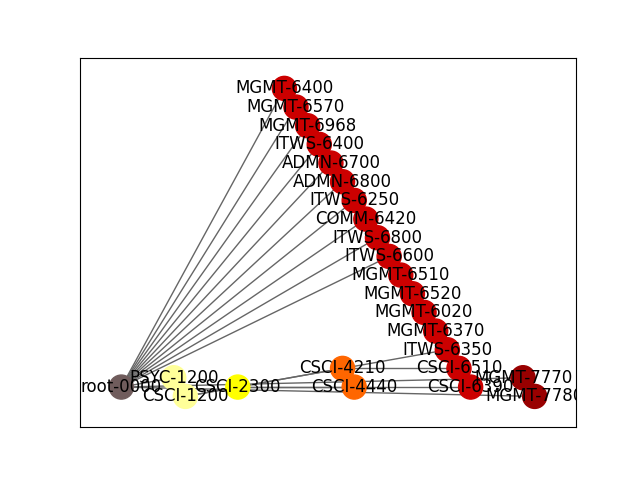
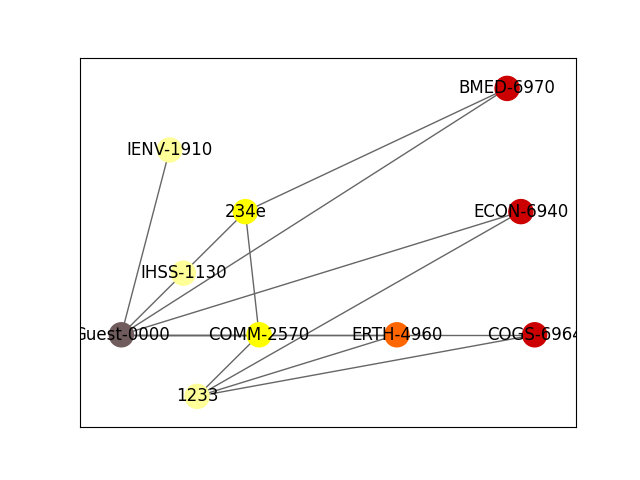
Finished add extracurricular

Changed region(s): [[0.125, 0.1562, 0.9062, 0.875], [0.1875, 0.2812, 0.3438, 0.375]]

diff --git a/gui.py b/gui.py
@@ -8,10 +8,12 @@ from tkinter import ttk
 
 TEAM_SLOGAN_STR = "RPI YOUR OWN ADVENTURE"
 # The following list is a stub when failed to load from SIS
-'''avail_list = ['Join 3 clubs', 'Go to a concert in EMPAC', 'Join the fraternity', \
-            'Join the sorosity', 'Work out at the RPI gym', 'Take the shuttle around the campus']  # list that is available
+avail_list = ['Join 3 clubs', 'Go to a concert in EMPAC', 'Join the fraternity', \
+              'Join the sorosity', 'Work out at the RPI gym',
+              'Take the shuttle around the campus']  # list that is available
 accept_list = []  # list you have accepted
-course_list =[]'''
+course_list = []
+
 
 class UserTypeEnum(enum.Enum):
     """
@@ -29,7 +31,7 @@ class pageEnum(enum.Enum):
     mainWindow = "mainWindow"
     AddSkillPage = "AddSkillPage"
     requestWindow = "requestWindow"
-
+    extraWindow = "extraWindow"
 
 class loginWindow:
     """
@@ -156,7 +158,7 @@ class mainWindow:
         self.skillFrame.place(x=0, y=0)
 
         # Request List
-        self.requestFrame=LabelFrame(self.master, text="Request List: ", font=("Georgia", 20))
+        self.requestFrame = LabelFrame(self.master, text="Request List: ", font=("Georgia", 20))
         self.requestFrame.pack()
         self.request_data = StringVar()
         self.requestList = Listbox(self.requestFrame, width=40, height=37, listvariable=self.request_data)
@@ -223,7 +225,6 @@ class mainWindow:
         self.modify_request.pack()
         self.modify_request.place(x=825, y=650)
 
-
     def Update_skilltree(self):
         """
         Reload the skillTree image from stored path
@@ -233,16 +234,21 @@ class mainWindow:
         self.label1 = Label(self.master, image=self.skillImg)
         self.label1.pack()
         self.label1.place(x=70, y=50)
+
     def extra(self):
         self.go_extra_page()
+
     def go_extra_page(self):
         """
         Initialize and go into extracurricular page
         """
+        self.sub_page_name = pageEnum.extraWindow
         self.master.deiconify()
         new_window = Toplevel(self.master)
-        extrapage(new_window)
+        self.sub_page_window = new_window
+        extrapage(new_window, personObj=self.PersonObj, st=self.ST, parent=self)
         new_window.mainloop()
+
     def addOrRemove(self):
         """
         Switch to the add/remove page
@@ -278,34 +284,71 @@ class mainWindow:
         """
         self.master.deiconify()
         newwindow = Toplevel(self.master)
-        request = requestWindow(newwindow,personObj=self.PersonObj)
+        request = requestWindow(newwindow, personObj=self.PersonObj)
         self.master.wait_window(newwindow)
         accept_list = request.return_list()
         self.request_data.set(accept_list)
 
+
 class extrapage:
-    def __init__(self,master):
+    def __init__(self, master, personObj=None, st=None, parent=None):
         self.master = master
         self.screen_width, self.screen_height = self.master.maxsize()
         self.w = int((self.screen_width - 800) / 2)
         self.h = int((self.screen_height - 600) / 2)
         self.master.geometry(f'800x600+{self.w}+{self.h}')
         self.master.resizable(width=False, height=False)
-        #Course List
+        # Course List
+
+        # ###################################################################################
+        self.PersonObj = personObj
+        self.ST = st
+        self.parent = parent
+        # Listbox representation for displaying the added/available courses
+        self.courseList_listbox = None
+        self.addedList_listbox = None
+        # Data representation for the course/added list as dict
+        self.course_dict = None
+        # Temp list for addition
+        self.course_list = None
+        self.added_list = None
+
+        self.course_dict = dict()
+        self.course_list = []
+        self.added_list = []
+
+        if self.PersonObj is not None:
+            # Update the selectable courses
+            for item in self.PersonObj.get_selectable_courses(self.ST):
+                self.course_list.append(str(item))
+                self.course_dict[str(item)] = item
+            # Update the selected courses
+            for course in self.PersonObj.get_skills():
+                self.added_list.append(str(course))
+        else:
+            self.course_list = ['mock list', 'Operating System', 'Principle of Software', 'Intro to algorithm']
+            for item in self.course_list:
+                self.course_dict[item] = item
+
         # self.courseframe=LabelFrame(self.master, text="Course List: ", font=("Georgia", 20))
         # self.courseframe.pack(side=TOP)
-        self.course_data=StringVar()
-        self.courseList = Listbox(self.master, height=30,width=50,listvariable=self.course_data)
-        self.course_data.set(course_list)
+        self.course_data = StringVar()
+        self.courseList = Listbox(self.master, height=30, width=50, listvariable=self.course_data,selectmode='multiple')
+
+        print(self.added_list)
+
+        for course in self.added_list:
+            self.courseList.insert(END, course)
+
         self.courseList.pack()
-        self.courseList.place(x=10,y=10)
-        #Extra course
-        self.extra_course=StringVar()
-        self.extra_entry=Entry(self.master, textvariable=self.extra_course)
+        self.courseList.place(x=10, y=10)
+        # Extra course
+        self.extra_course = StringVar()
+        self.extra_entry = Entry(self.master, textvariable=self.extra_course)
         self.extra_entry.insert(0, "Enter Course here")
         self.extra_entry.pack()
-        self.extra_entry.place(x=500, y=150,width=150, height=50)
-        #Added the course 
+        self.extra_entry.place(x=500, y=150, width=150, height=50)
+        # Added the course
         self.addextra = Button(
             self.master,
             text="Add",
@@ -316,10 +359,35 @@ class extrapage:
             command=lambda: self.add()
         )
         self.addextra.pack()
-        self.addextra.place(x=500,y=200, width=150, height=50)
+        self.addextra.place(x=500, y=200, width=150, height=50)
+
     def add(self):
-        #TO DO: add extra course
-        pass
+        # print(self.extra_entry.get())
+        this_input = str(self.extra_entry.get())
+        selected_course_index = []
+        if this_input == "Enter Course here" or this_input == "":
+            return
+        try:
+            selected_course_index = self.courseList.curselection()
+            # print(selected_course_index)
+        except:
+            return
+        selected_course = [self.ST.get_node_by_shortName(self.courseList.get(index)) for index in selected_course_index]
+        this_skill = self.ST.add_custom_skill(skill_name=this_input, parent=selected_course)
+        self.PersonObj.add_skill(self.ST, this_skill)
+
+
+
+        self.go_back()
+
+
+
+
+    def go_back(self):
+        self.parent.sub_page_name = None
+        self.parent.sub_page_window = None
+        self.master.destroy()
+
 
 class AddSkillPage:
     """
@@ -379,6 +447,7 @@ class AddSkillPage:
             # Update the selected courses
             for course in self.PersonObj.get_skills():
                 self.added_list.append(str(course))
+                self.course_dict[str(course)] = course
         else:
             self.course_list = ['mock list', 'Operating System', 'Principle of Software', 'Intro to algorithm']
             for item in self.course_list:
@@ -499,7 +568,7 @@ class AddSkillPage:
         """
         self.statusBar.set("Adding course........")
         self.console.update()
-        print(self.courseList_listbox.curselection()[0])
+        # print(self.courseList_listbox.curselection()[0])
         if self.courseList_listbox.curselection()[0] is not None and self.courseList_listbox.curselection()[0] >= 0:
             # Get selection and add the skill
             selected = self.courseList_listbox.get(self.courseList_listbox.curselection())
@@ -617,7 +686,7 @@ class requestWindow:
         self.master.resizable(width=False, height=False)
 
         # Available Request List
-        self.avalFrame=LabelFrame(self.master, text="Available Request List: ", font=("Georgia", 20))
+        self.avalFrame = LabelFrame(self.master, text="Available Request List: ", font=("Georgia", 20))
         self.avalFrame.pack(side=TOP)
         self.avail_item = StringVar()
         self.avail_item.set(self.PersonObj.get_avail_request())
@@ -626,7 +695,7 @@ class requestWindow:
         self.avalFrame.place(x=50, y=0)
 
         # Accepted Request List
-        self.acceptFrame=LabelFrame(self.master, text="Accepted Request List: ", font=("Georgia", 20))
+        self.acceptFrame = LabelFrame(self.master, text="Accepted Request List: ", font=("Georgia", 20))
         self.acceptFrame.pack(side=TOP)
         self.accept_item = StringVar()
         self.accept_item.set(self.PersonObj.get_accept_request())
@@ -698,7 +767,7 @@ class requestWindow:
         """
         Accept the selected request
         """
-        self.PersonObj.add_accept_request(self.PersonObj.remove_avail_request(\
+        self.PersonObj.add_accept_request(self.PersonObj.remove_avail_request( \
             self.avail_request.get(self.avail_request.curselection())))
         self.avail_item.set(self.PersonObj.get_avail_request())
         self.accept_item.set(self.PersonObj.get_accept_request())
@@ -707,7 +776,7 @@ class requestWindow:
         """
         Remove the selected request
         """
-        self.PersonObj.add_avail_request(self.PersonObj.remove_accept_request(\
+        self.PersonObj.add_avail_request(self.PersonObj.remove_accept_request( \
             self.accept_request.get(self.accept_request.curselection())))
         self.avail_item.set(self.PersonObj.get_avail_request())
         self.accept_item.set(self.PersonObj.get_accept_request())
@@ -724,7 +793,7 @@ class requestWindow:
         Return the accepted list
         """
         return self.PersonObj.get_accept_request()
-        
+
     def goBack(self):
         """
         Go back to the parent page

diff --git a/basicClasses/SkillTree.py b/basicClasses/SkillTree.py
@@ -23,6 +23,7 @@ class SkillTree:
     # The default color sequence for printing the tree
     root_color = '#777777'
     colors = ['#ffff99', '#ffff00', '#ff9933', '#ff6600', '#ff3300', '#cc0000', '#990000', '#660000', '#705c5c']
+    custom_counter = 0
 
     # The entry to the tree
     def __init__(self, root=None, name="#DEFAULT_NAME"):
@@ -140,6 +141,7 @@ class SkillTree:
                 skill.add_parent(parent)
                 if [str(skill), str(parent)] not in self.connection:
                     self.connection.append([str(skill), str(parent)])
+
         if child is not None:
             if isinstance(child, list):
                 for chi in child:
@@ -159,11 +161,12 @@ class SkillTree:
         :param skill_name: str, the name of the custom skill to be added
         :param parent: a list of skillTreeNode to be added as the parent
         :param child: a list of skillTreeNode to be added as the child
-        :return: None
+        :return: the created skillTreeNode
         """
-        this_skill_node = SkillTreeNode(hash(skill_name), parent, child)
-        self.addSkill(this_skill_node, parent, child)
-
+        this_skill_node = SkillTreeNode(ID="Cust-"+str(self.custom_counter), fullName=skill_name, shortName=skill_name)
+        self.custom_counter += 1
+        self.addSkill(skill=this_skill_node, parent=parent, child=child)
+        return this_skill_node
 
     def remove_skill(self, skill: SkillTreeNode):
         """
@@ -255,7 +258,11 @@ class SkillTree:
                     pos[node] = [hard_level - 0.1 * pos_counter[hard_level], pos_counter[hard_level]]
                     pos_counter[hard_level] += 2
                 else:
+                    hard_level = 9
                     color_map.append('#777777')
+                    pos[node] = [hard_level - 0.1 * pos_counter[hard_level], pos_counter[hard_level]]
+                    pos_counter[hard_level] += 2
+
             # pos = nx.kamada_kawai_layout(g)
 
             ax1 = plt.subplot(111)
@@ -305,19 +312,30 @@ class SkillTree:
         :param verbose: if set to True, then print the verbose information of each node
         :return:
         """
+        node_str = dict()
+        rep_dict = dict()
         if not verbose:
-            node_str = [str(this_node) for this_node in nodes]
+            for this_node in nodes:
+                node_str[str(this_node)] = this_node.shortName
+                rep_dict[str(this_node)] = this_node
         else:
-            node_str = [str(this_node.ID) + ":" + str(this_node.shortName) for this_node in nodes]
+            for this_node in nodes:
+                node_str[str(this_node)] = str(this_node.ID) + ":" + str(this_node.shortName)
+                rep_dict[str(this_node)] = this_node
+
         chosen_set = set()
         this_connection = []
         for left, right in self.connection:
             if left in node_str and right in node_str:
-                this_connection.append([left, right])
+                this_connection.append([node_str[left], node_str[right]])
                 chosen_set.add(left)
                 chosen_set.add(right)
         for node in node_str:
-            if node in chosen_set:
+            print("THIS NODE IS:")
+            print(node)
+            print(rep_dict[node].parent)
+
+            if node in chosen_set and rep_dict[node].parent[0] != self.root_node:
                 continue
             this_connection.append([root_name, node])
 

diff --git a/main.py b/main.py
@@ -103,8 +103,10 @@ if __name__ == "__main__":
                 time.sleep(0.5)
                 if GUI_thread.window.sub_page_name is None:
                     print("Returning to the main Page")
-                    print(User.get_skills())
+                    for skill in User.get_skills():
+                        print(str(skill))
                     st.pretty_print_partial_tree(User.get_skills(), root_name=User.name + "-0000", save_fig=True)
+                    time.sleep(1)
                     GUI_thread.window.Update_skilltree()
                     break
 
